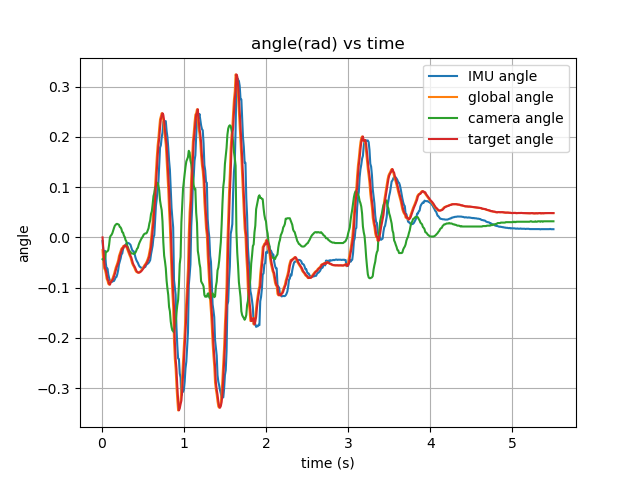
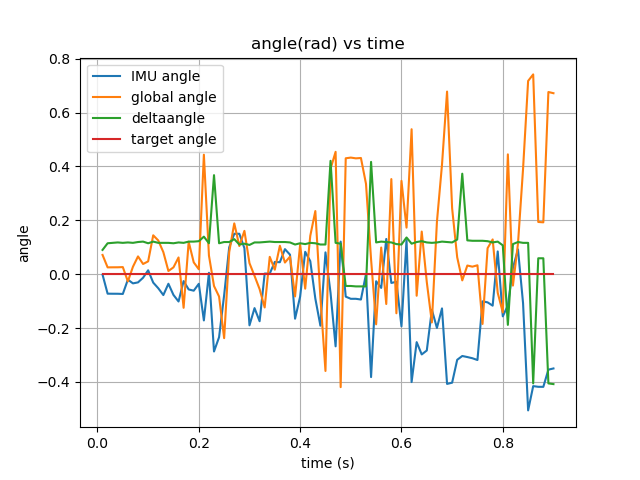
fix yaw

diff --git a/testt_no_depth.py b/testt_no_depth.py
@@ -178,17 +178,15 @@ def call_heartBeat():
     global target_angle
     global Global_xyz_filtered
     while True:
+        print(target_angle[1])
         if enemy_detected:
-            print(target_angle[1])
-            CvCmder.CvCmd_Heartbeat(gimbal_pitch_target=0, gimbal_yaw_target=Global_xyz_filtered[2], chassis_speed_x=0, chassis_speed_y=0)
+            CvCmder.CvCmd_Heartbeat(gimbal_pitch_target=Global_xyz[1], gimbal_yaw_target=0, chassis_speed_x=0, chassis_speed_y=0)
         else:
-            print(target_angle[1])
-            CvCmder.CvCmd_Heartbeat(gimbal_pitch_target=0, gimbal_yaw_target=Global_xyz_filtered[2], chassis_speed_x=0, chassis_speed_y=0)
+            CvCmder.CvCmd_Heartbeat(gimbal_pitch_target=Global_xyz[1], gimbal_yaw_target=0, chassis_speed_x=0, chassis_speed_y=0)
         time.sleep(1/500)
 
 model = YOLO("best.pt")
 CvCmder = CvCmdApi.CvCmdHandler('/dev/ttyUSB0')
-np.set_printoptions(precision=2)
 
 pipeline = dai.Pipeline()
 
@@ -237,7 +235,7 @@ config.depthThresholds.upperThreshold = 10000
 calculationAlgorithm = dai.SpatialLocationCalculatorAlgorithm.AVERAGE
 config.roi = dai.Rect(topLeft, bottomRight)
 
-imu.enableIMUSensor(dai.IMUSensor.ROTATION_VECTOR, 120)
+imu.enableIMUSensor(dai.IMUSensor.ROTATION_VECTOR, 60)
 imu.setBatchReportThreshold(1)
 imu.setMaxBatchReports(10)
 imu.out.link(xlinkOut.input)
@@ -247,7 +245,7 @@ spatialLocationCalculator.initialConfig.addROI(config)
 
 color.setCamera("color")
 
-sync.setSyncThreshold(timedelta(milliseconds=50))
+sync.setSyncThreshold(timedelta(milliseconds=10))
 
 monoLeft.out.link(stereo.left)
 monoRight.out.link(stereo.right)
@@ -320,24 +318,26 @@ while True:
                     topLeft = dai.Point2f(((4*(center_x-7))/4056), ((((center_y-7)+30)*4+220)/3040))# (960,540))[ 30:510, 160:800]
                     bottomRight = dai.Point2f(((4*(center_x+7))/4056),((((center_y+7)+30)*4+220)/3040))
    
+ 
+                    frame["video"] = cv2.circle(frame["video"], (center_x,center_y), 10, (255, 0, 0) , 2)
+                    frame["disparity"] = cv2.circle(frame["disparity"], (int((((4*(center_x+160))/4056)*640)),int(400*(((center_y+30)*4+220)/3040))), 60, (255, 255, 255) , 2)
+                    
+                    focal_length_in_pixel = 1280 *1.15* 4.81 / 11.043412
+                    focal_length_in_pixel_pitch =  1.2*960 * 4.81 / 11.043412
+                    
+                    theta  = math.atan((center_x - 320)/focal_length_in_pixel)
+                    phi = math.atan((center_y - 240)/focal_length_in_pixel)
+                    
+                    theta_record.append(theta)
+                    if abs(theta)<0.1:
+                        theta =0
                     angle_rt= angles.copy()
                     cur_angle = np.array(angle_rt) - np.array(angles_default)
                  
 
                     cur_angle[2] = wrap_angle(-cur_angle[2])
-                    angle_record.append(cur_angle[2])
+                    angle_record.append(cur_angle[1])
 
-                    frame["video"] = cv2.circle(frame["video"], (center_x,center_y), 10, (255, 0, 0) , 2)
-                    frame["disparity"] = cv2.circle(frame["disparity"], (int((((4*(center_x+160))/4056)*640)),int(400*(((center_y+30)*4+220)/3040))), 60, (255, 255, 255) , 2)
-                    
-                    focal_length_in_pixel = 2.3* 1280 *0.9* 4.81 / 11.043412
-                    focal_length_in_pixel_pitch =  2.3*960 * 4.81 / 11.043412
-                    
-                    theta  = math.atan((center_x - 320)/focal_length_in_pixel)
-                    phi = math.atan((center_y - 240)/focal_length_in_pixel_pitch)
-                    
-                    theta_record.append(theta)
-                    
                     #roll pitch yaw
                     # Yaw clockwise + 
                     # Pitch down +
@@ -346,14 +346,14 @@ while True:
                     # Global_xyz = (np.array(Global_xyz)+np.array(last))/2
                     target_yaw_record = np.append(target_yaw_record,Global_xyz[2])
 
-                    savgol_filter(target_yaw_record, 10, 4, mode='nearest')
+                    target_yaw_record = savgol_filter(target_yaw_record, 40, 3, mode='nearest')
                     
                     Global_xyz_filtered[2] = target_yaw_record[-1]
 
                     #print global location for debug
-                    location_record.append(Global_xyz[2])
-                    target_record.append(target_angle[2])
-
+                    location_record.append(Global_xyz[1])
+                    target_record.append(Global_xyz_filtered[1])
+                    
                     if angle_reached : 
                         target_angle = Global_xyz 
 
@@ -381,7 +381,7 @@ fig, ax = plt.subplots()
 
 ax.plot(t, angle_record,label='IMU angle')
 ax.plot(t,location_record,label='global angle')
-ax.plot(t,theta_record,label='camera angle')
+ax.plot(t,theta_record,label='deltaangle')
 ax.plot(t,target_record,label='target angle')
 
 
